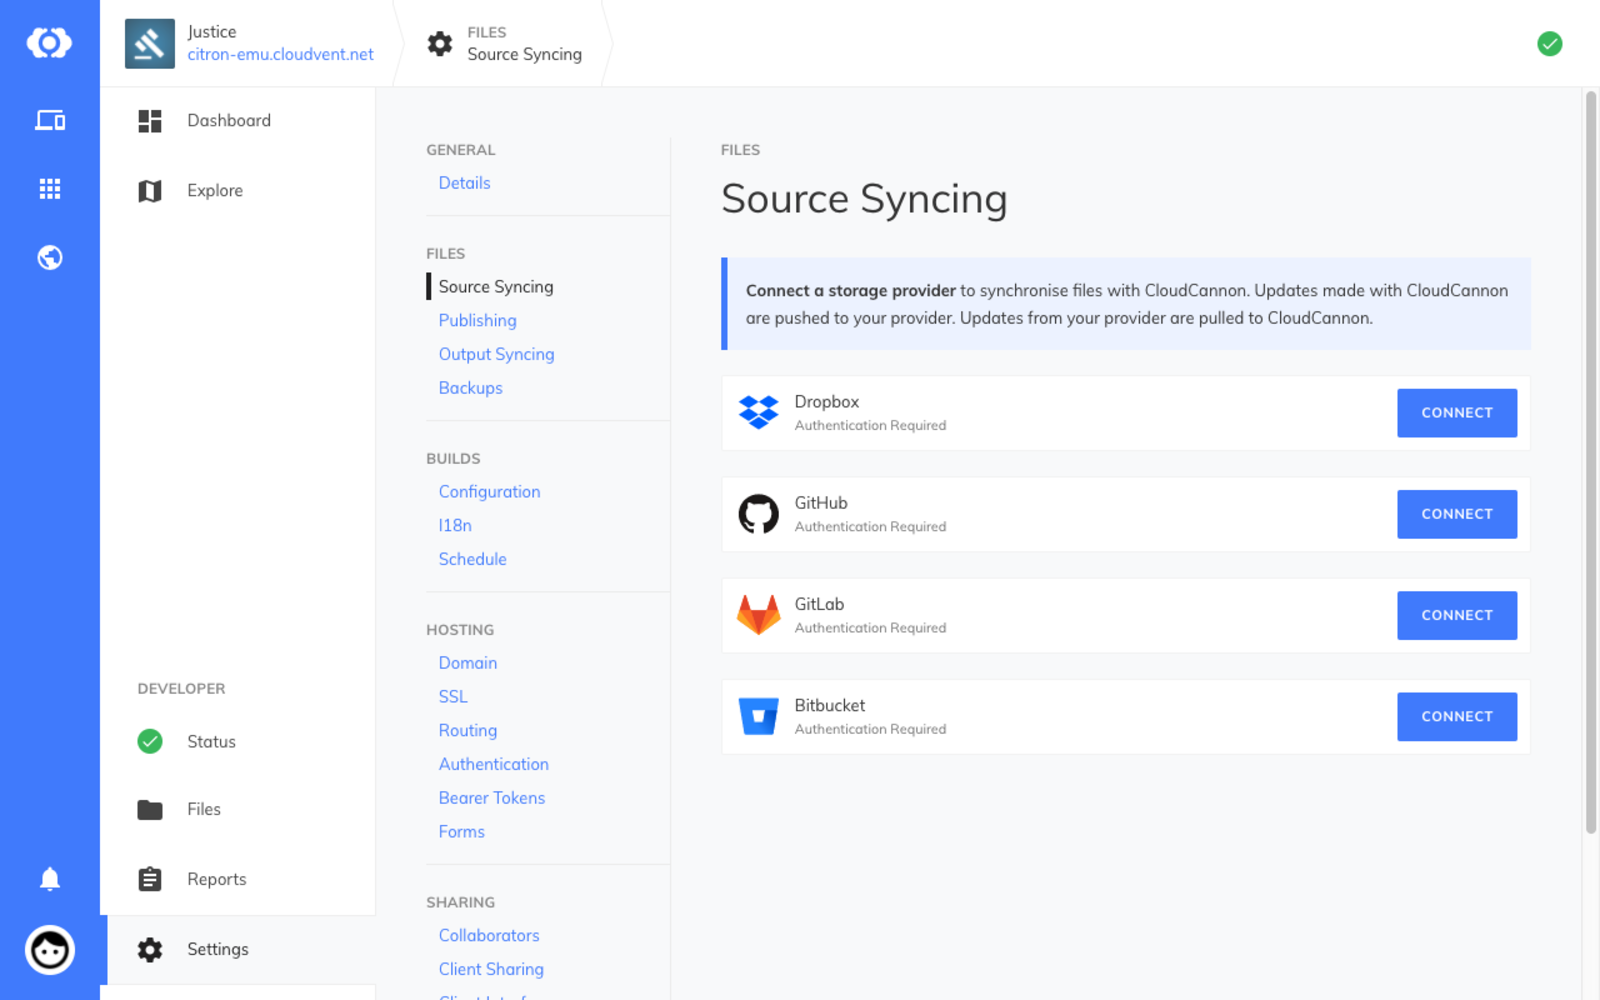
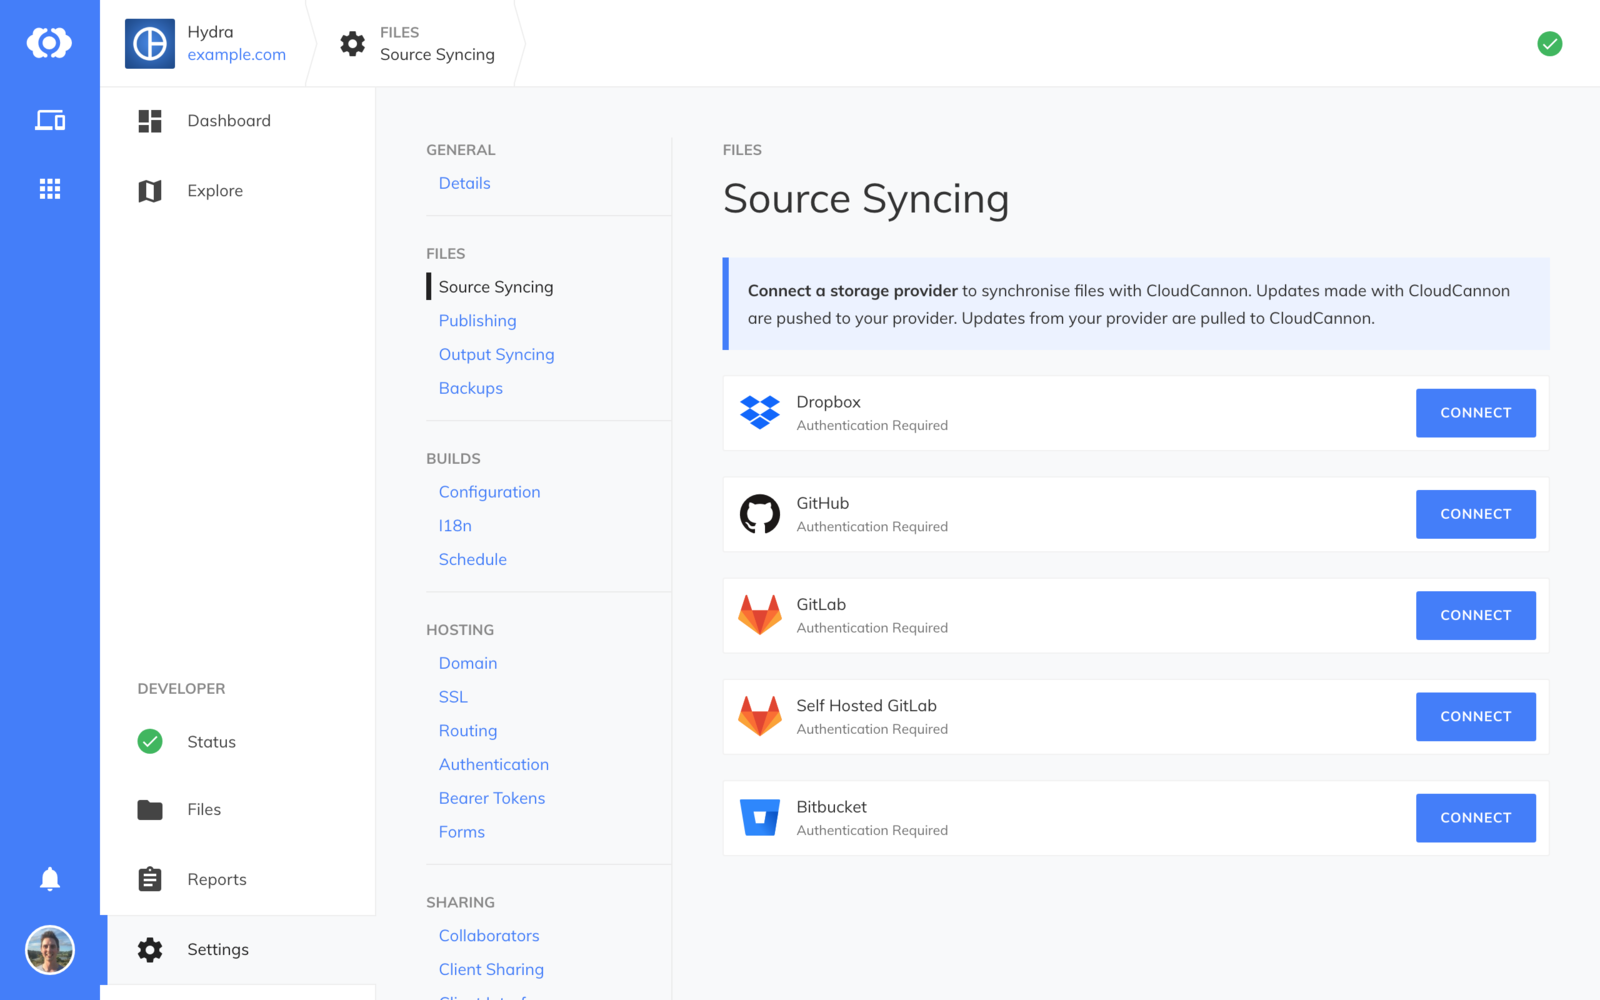
Self hosted GitLab details

diff --git a/src/collections/_file_docs/source-syncing/self-hosted-gitlab.md b/src/collections/_file_docs/source-syncing/self-hosted-gitlab.md
@@ -1,0 +1,41 @@
+---
+title: Self Hosted GitLab
+category: Source Syncing
+order: 5
+---
+
+Connecting to your self hosted GitLab allows you to work on your websites locally and have the changes sync to CloudCannon. File changes made on CloudCannon also get synced back to your self hosted GitLab.
+
+> To connect to a *GitLab.com* repository instead, follow the instructions listed for [GitLab](/files/source-syncing/gitlab/).
+{: .explainer}
+
+### Connecting to an Instance
+
+Before syncing with a repository in your self hosted GitLab, you need to connect CloudCannon to your self hosted instance. You only need to do this once per account.
+
+To connect to your self hosted GitLab instance:
+
+1. Go to *Account Settings* / *Self Hosted GitLab*
+2. Enter the details for your self hosted instance of GitLab
+3. Click **Configure Self Hosted GitLab**
+
+![Self hosted GitLab entry interface](/images/files/source-syncing/self-hosted-gitlab.png){: .screenshot srcset="/images/files/source-syncing/self-hosted-gitlab.png 800w, /images/files/source-syncing/self-hosted-gitlab@2x.png 1600w"}
+
+### Syncing with a Repository
+
+To connect a self hosted GitLab repository and start syncing files, follow these instructions:
+
+Go to *Site Settings* / *Source Syncing* and click **Connect** next to Self Hosted GitLab.
+
+![Storage Providers interface](/images/files/source-syncing/storage-providers.png){: .screenshot srcset="/images/files/source-syncing/storage-providers.png 800w, /images/files/source-syncing/storage-providers@2x.png 1600w"}
+
+This redirects you to your self hosted GitLab. Log in and authorise CloudCannon access to your self hosted GitLab account.
+
+You'll be redirected back to CloudCannon to pick a repository to connect. If you don't have one for this website, create a new one in your self hosted GitLab and refresh this page.
+
+> A dialog box warns you if there are existing files in your site. The files will be replaced with the contents of the repository. Click **Connect Self Hosted GitLab** to continue or close the dialog to cancel the process.
+{: .explainer .warning}
+
+Self Hosted GitLab is now connected. Changes you push to the Git repository are pulled in by CloudCannon. Any changes made on CloudCannon are automatically committed and pushed.
+
+![Storage Providers interface with GitLab connected](/images/files/source-syncing/gitlab/connected.png){: .screenshot srcset="/images/files/source-syncing/gitlab/connected.png 800w, /images/files/source-syncing/gitlab/connected@2x.png 1600w"}

diff --git a/src/collections/_file_docs/source-syncing/gitlab.md b/src/collections/_file_docs/source-syncing/gitlab.md
@@ -6,6 +6,9 @@ order: 4
 
 Connecting GitLab allows you to work on your websites locally and have the changes sync to CloudCannon. File changes made on CloudCannon also get synced back to GitLab.
 
+> To connect to a *self hosted GitLab* repository instead, follow the instructions listed for [Self Hosted GitLab](/files/source-syncing/self-hosted-gitlab/).
+{: .explainer}
+
 To connect a GitLab repository and start syncing files, follow these instructions:
 
 Go to *Site Settings* / *Source Syncing* and click **Connect** next to GitLab.

diff --git a/src/collections/_file_docs/source-syncing/dropbox.md b/src/collections/_file_docs/source-syncing/dropbox.md
@@ -1,7 +1,7 @@
 ---
 title: Dropbox
 category: Source Syncing
-order: 5
+order: 6
 ---
 
 Connecting Dropbox allows you to work on your websites locally and have the changes sync to CloudCannon. File changes made on CloudCannon also get synced back to Dropbox.
